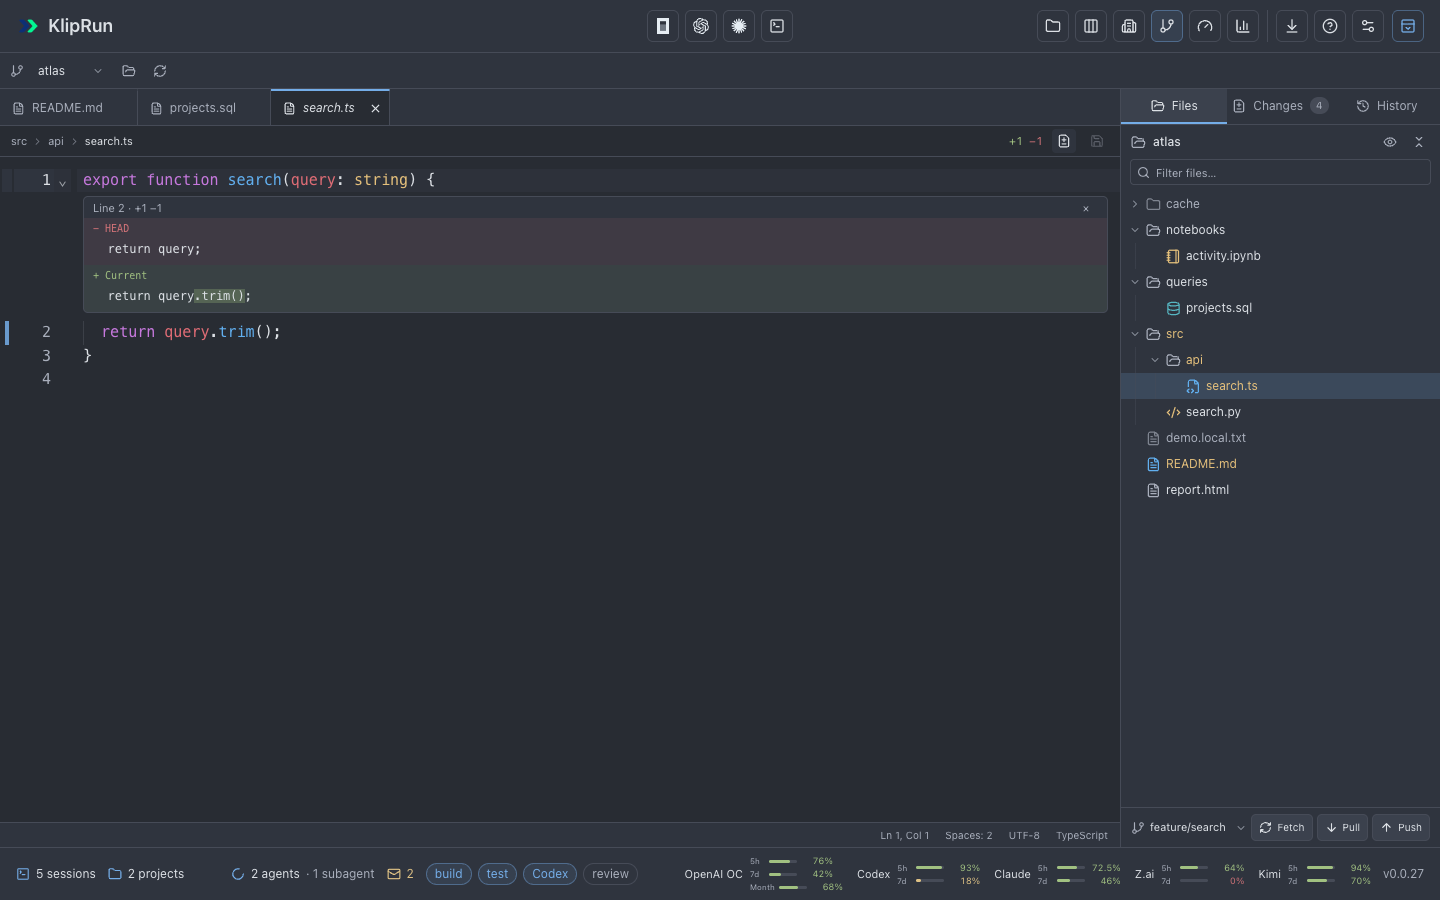
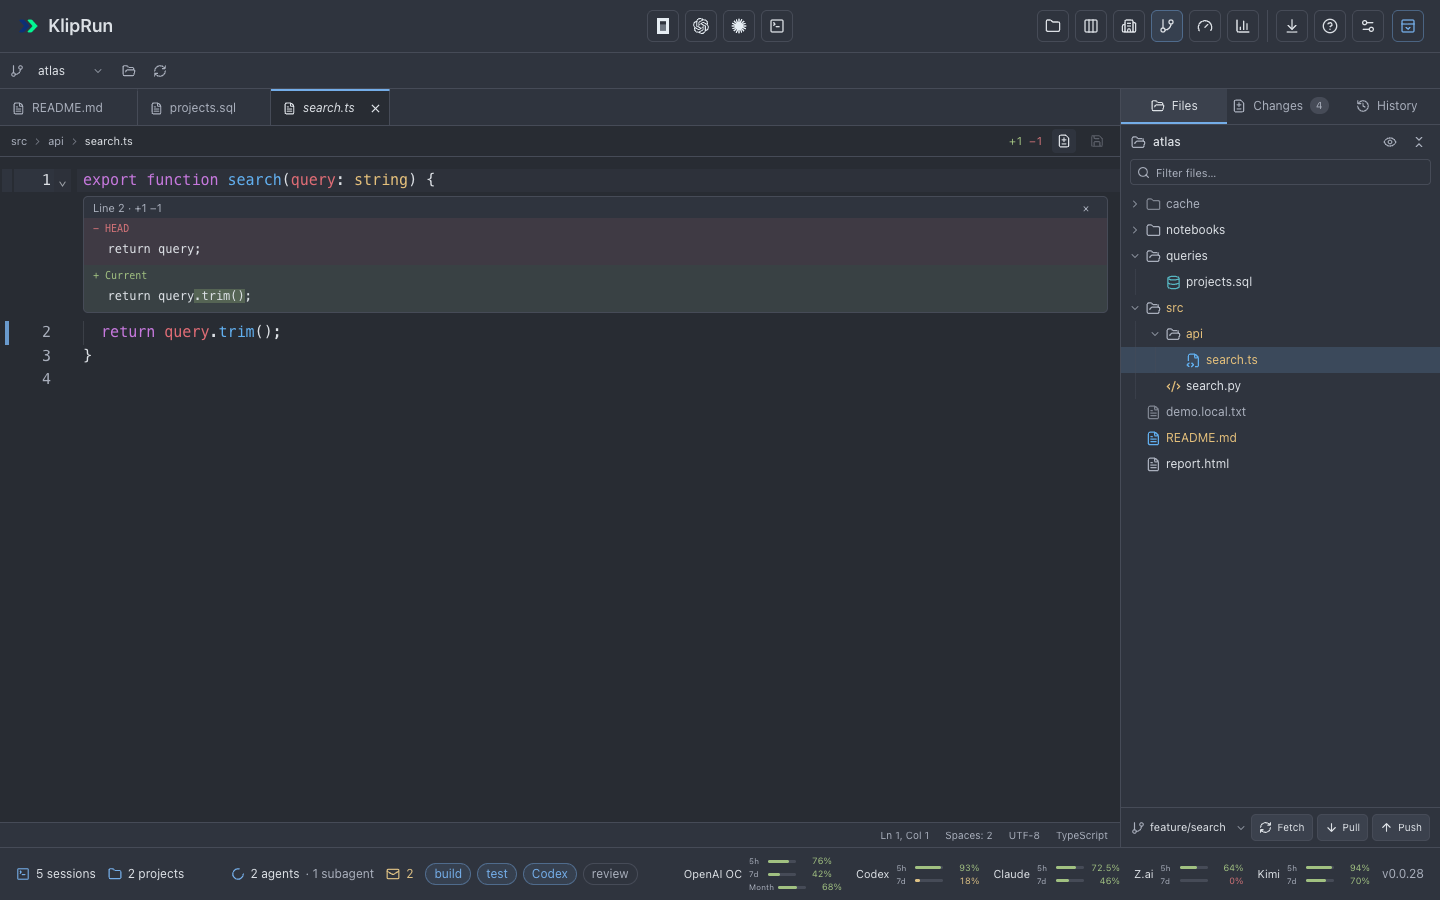
release/0.0.28: Подготовить версию и обновить все скриншоты

diff --git a/docs/screenshots/capture-files.js b/docs/screenshots/capture-files.js
@@ -15,7 +15,11 @@ async (page, directory = "docs/screenshots", fixture, base = "http://127.0.0.1:1
     await page.getByRole("button", { name: "Repository", exact: true }).click();
     await page.getByRole("option").filter({ hasText: root }).click();
     await page.getByRole("tab", { name: "Files", exact: true }).click();
-    for (const path of ["README.md", "queries/projects.sql"]) await page.getByRole("treeitem", { name: `Open file ${path}`, exact: true }).dblclick();
+    for (const path of ["README.md", "queries/projects.sql"]) {
+      await page.getByRole("textbox", { name: "Filter files", exact: true }).fill(path);
+      await page.getByRole("treeitem", { name: `Open file ${path}`, exact: true }).dblclick();
+      await page.getByRole("button", { name: "Clear file filter", exact: true }).click();
+    }
     await page.getByRole("textbox", { name: "Filter files", exact: true }).fill("src/api/search.ts");
     await page.getByRole("treeitem", { name: "Open file src/api/search.ts", exact: true }).click();
     await page.getByRole("textbox", { name: "Edit src/api/search.ts", exact: true }).waitFor();
@@ -31,7 +35,9 @@ async (page, directory = "docs/screenshots", fixture, base = "http://127.0.0.1:1
     await page.locator('button[aria-label="Preview Markdown"]:visible').click();
     await page.getByRole("heading", { name: "Atlas search", exact: true }).waitFor();
     await page.screenshot({ path: `${directory}/git-markdown.png`, animations: "disabled" });
+    await page.getByRole("textbox", { name: "Filter files", exact: true }).fill("notebooks/activity.ipynb");
     await page.getByRole("treeitem", { name: "Open file notebooks/activity.ipynb", exact: true }).click();
+    await page.getByRole("button", { name: "Clear file filter", exact: true }).click();
     await page.getByRole("heading", { name: "Atlas project activity", exact: true }).waitFor();
     await page.screenshot({ path: `${directory}/git-notebook.png`, animations: "disabled" });
     if (external.length) throw new Error("Capture made external requests");

diff --git a/docs/screenshots/capture-all.js b/docs/screenshots/capture-all.js
@@ -10,7 +10,7 @@ async (page, directory = "docs/screenshots", base = "http://127.0.0.1:18796") =>
     await page.goto(`${base}${path}`);
     if (!path.startsWith("/__demo/")) {
       await page.locator('[data-testid="version"]').waitFor();
-      if ((await page.locator('[data-testid="version"]').innerText()) !== "v0.0.27") throw new Error("Build the 0.0.27 client before capturing.");
+      if ((await page.locator('[data-testid="version"]').innerText()) !== "v0.0.28") throw new Error("Build the 0.0.28 client before capturing.");
     }
   }
   async function save(name) {

diff --git a/docs/screenshots/README.md b/docs/screenshots/README.md
@@ -1,6 +1,6 @@
 # Demo screenshots
 
-All nineteen current screenshots were captured from **KlipRun Desktop 0.0.27** on **2026-10-19**, using Graphite, the new default. The original palette is now named Midnight. Session IDs, titles, project paths, models, priority flags, Git metadata, quotas, and usage totals come only from [`mock-api.json`](mock-api.json). The preview fixes the clock to the fixture’s `board.generated_at` (2026-10-14), supplies a stub desktop bridge, and disables Office motion. No live engine, user session store, credentials, quota API, or agent process is used.
+All nineteen current screenshots were captured from **KlipRun Desktop 0.0.28** on **2026-10-19**, using Graphite. The original palette is named Midnight. Session IDs, titles, project paths, models, priority flags, Git metadata, quotas, and usage totals come only from [`mock-api.json`](mock-api.json). The preview fixes the clock to the fixture’s `board.generated_at` (2026-10-14), supplies a stub desktop bridge, and disables Office motion. No live engine, user session store, credentials, quota API, or agent process is used.
 
 | File | Size | Example shown |
 | --- | --- | --- |
@@ -34,6 +34,13 @@ HEAD and clean-file refresh, unsaved draft preservation, safe baseline text,
 ignored folders and visibility persistence, and narrow/light/dark
 layouts. Saves are intercepted in memory and Git writes are blocked. Review
 screenshots go to `/private/tmp`; the committed Files screenshots also show the current review controls and ignored entries.
+
+The fixture Files API now mirrors directory-by-directory browsing, paged lists,
+and repository-wide path searches. [`../../scripts/git-lazy-files.test.js`](../../scripts/git-lazy-files.test.js)
+checks unopened folders, root/folder/search pages, failed and delayed searches,
+tracked exceptions in ignored folders, state restoration, selected search results,
+and three window widths. It uses a fresh browser context and in-memory responses
+based on the same fictional paths; review screenshots stay in `/private/tmp`.
 
 Usage now also reads the existing statistics endpoints against that same fixture. [`../../scripts/usage-overview.test.js`](../../scripts/usage-overview.test.js) verifies history periods and source filters, composition-to-trend controls, model drilldowns, task details, seven viewport widths, a 420 px pane inside a wide viewport, the light theme, and error recovery. Its default fixture preview port is 18826. Provider balances remain separate from local token counts; cached/reset-pending providers and unavailable/empty history are checked without live credentials or session stores. All nineteen images were refreshed for this release, including the redesigned Usage page.
 
@@ -71,10 +78,15 @@ Klopik skin thumbnails in `engine/src/client/public/klopik-skins/` are generated
 
 [`../../scripts/git-review-layout.test.js`](../../scripts/git-review-layout.test.js) checks the compact repository toolbar, staging controls before filenames, loaded-commit search, keyboard navigation, automatic first-file diffs, persistent close, and small layouts using fixture data without Git writes.
 
-[`capture-files.js`](capture-files.js) takes `(page, outputDirectory, fixture, base)` and captures Files, its context menu, Markdown, and Jupyter Notebook from `git.text_files` in `mock-api.json`, with all file reads intercepted and no writes. All nineteen current images were refreshed for 0.0.27.
+[`capture-files.js`](capture-files.js) takes `(page, outputDirectory, fixture, base)` and captures Files, its context menu, Markdown, and Jupyter Notebook from `git.text_files` in `mock-api.json`, with all file reads intercepted and no writes. All nineteen current images were refreshed for 0.0.28.
 
 The shortcut image includes the native File/Edit/View/Navigate/Terminal commands. `scripts/native-menus.test.js` verifies the real web command bridge using fixture files and in-memory saves, including CodeMirror history, native-menu capability updates, unsaved-state reporting, close/cancel and draft-preserving refresh. Native focus/routing and standard menu shortcuts are checked separately with Swift tests and a disposable menu probe.
 
 The 0.0.27 refresh preserves the README and gallery ordering and includes the redesigned Usage overview with token history and provider capacity. Git workspace persistence is checked separately with the fixture-based state tests; native Agents settings and the terminal switcher are covered by Swift integration tests with disposable defaults and shells. HTML preview and status-popup checks use only fixture data through `scripts/html-preview.test.js` and `scripts/workspace-controls.test.js`; commit/history resizing is covered by `scripts/git-height-resize.test.js`.
 
 The 0.0.27 refresh includes neutral Kanban card outlines, brighter Sessions status dots, Office without the redundant Back to board button, and Git Files with HEAD/current review blocks and muted ignored entries. The toolbar remains compact in the gallery; its persisted expanded variant is covered by `scripts/toolbar-labels.test.js` in normal and small layouts. All captures made zero external requests.
+
+The 0.0.28 refresh retains the gallery order and shows the directory-by-directory
+Files tree. Root/folder/search pagination and recovery after a temporary Sessions
+startup failure are covered by regression tests; all captures use the fictional
+fixture and make zero external requests.

diff --git a/README.md b/README.md
@@ -33,7 +33,7 @@ use **Kanban** in this toolbar to return to the board.
 
 Requires **Apple Silicon and macOS 13+**.
 
-1. Download `KlipRun-0.0.27-macos-arm64.zip` from the [latest release](https://github.com/klipbn/kliprun_desktop/releases/latest).
+1. Download `KlipRun-0.0.28-macos-arm64.zip` from the [latest release](https://github.com/klipbn/kliprun_desktop/releases/latest).
 2. Unzip and move `KlipRun.app` to **Applications**. Quit KlipRun before replacing an older version.
 3. Open the app. If macOS blocks it, use **System Settings → Privacy & Security → Open Anyway**. The build is locally signed and not notarized.
 
@@ -42,6 +42,8 @@ Install and sign in to [OpenCode](https://opencode.ai/), [Codex CLI](https://git
 The Claude Code button is immediately to the right of Codex; **⌘⇧A** opens a project picker and starts `claude` in an embedded terminal. Sessions shows Claude history and can resume a chat in its original folder. Working in a subdirectory keeps the original project folder and live session link. KlipRun reads `~/.claude/projects` (or `CLAUDE_CONFIG_DIR`) without modifying Claude's configuration or journals. Live cards use confirmed process/session records or open journal descriptors; ambiguous terminals display “Status unknown”. Model, token usage, messages, tool activity, and observed status history appear alongside the other agents. Context bars use recorded model limits or the existing model-limit catalog/overrides; unavailable limits are left blank. Usage and the bottom status bar show remaining 5-hour and weekly Claude subscription limits using the existing OAuth sign-in from macOS Keychain or `.credentials.json`. Renew expired sign-ins in Claude Code; API keys do not expose subscription limits.
 
 In **Sessions**, drag the divider beside All sessions, Favorites, and Projects to resize the sidebar; its width is saved. Hover or focus the running/unread counters or an agent badge in the bottom bar to open a session list, then click a session to view its details. Terminal tabs offer **Rename…**, **Pin / Unpin**, and **Close** on right-click. Pinned tabs collapse to squares with the full title on hover and stay on the left in pin order; the active tab has a thin accent line above it. Closing a running tab ends its process after confirmation.
+
+If Sessions cannot refresh after a temporary history-index startup failure, **Retry** or the next automatic refresh restarts the history service. Saved projects, groups, and favorites are preserved.
 
 Click the terminal icon at the far left of the terminal tab bar to open a scrollable list of all open terminal tabs. Each row shows its number, title, project folder, running indicator, and pin state; a checkmark identifies the active tab. Numbers follow the current tab order, including pinned and reordered tabs. The first nine show their **⌘1–9** shortcuts; later tabs remain available by clicking. Choosing a row switches to that terminal and its linked session and closes the list.
 
@@ -71,9 +73,15 @@ Clean open files also follow disk updates on the repository's regular refresh;
 an unsaved draft is never replaced by an agent's changes.
 Diffs above the 512 KiB limit show a notice; the file editor keeps its existing limits.
 
+**Git → Files** loads the repository root first and folder contents when expanded.
+Large folders and search results offer **Load more**; browsing is no longer cut
+off at 10,000 repository paths. **Filter files** searches paths throughout the
+repository, including unopened folders, and follows the ignored-files setting.
+
 Ignored files and folders are visible with muted names. **Hide ignored files**
 and **Show ignored files** control their visibility; the choice is saved per
-repository. Ignored folders load one level at a time when expanded. Regular
+repository. Folders containing tracked files remain accessible when ignored
+entries are hidden. Regular
 ignored text files can be opened and saved, but do not receive Git change marks.
 The existing checks for symlinks, Git metadata, nested repositories, and concurrent
 file edits still apply.

diff --git a/CHANGELOG.md b/CHANGELOG.md
@@ -4,6 +4,13 @@ Notable changes to KlipRun Desktop are recorded here. Versions use [Semantic Ver
 
 ## [Unreleased]
 
+## [0.0.28] - 2026-10-19
+
+### Fixed
+
+- Load Git Files one directory at a time with additional pages for large folders instead of omitting paths after the first 10,000. Search the entire repository with paged, streamed results, Unicode matching, ignored-file visibility, and safe cancellation of stale responses; reveal selected search results in the tree.
+- Recover Sessions and statistics on the next refresh after a temporary history-index startup failure, including a locked SQLite database. Restart only the failed worker, share recovery across concurrent requests, and preserve saved session organization.
+
 ## [0.0.27] - 2026-10-19
 
 ### Added
